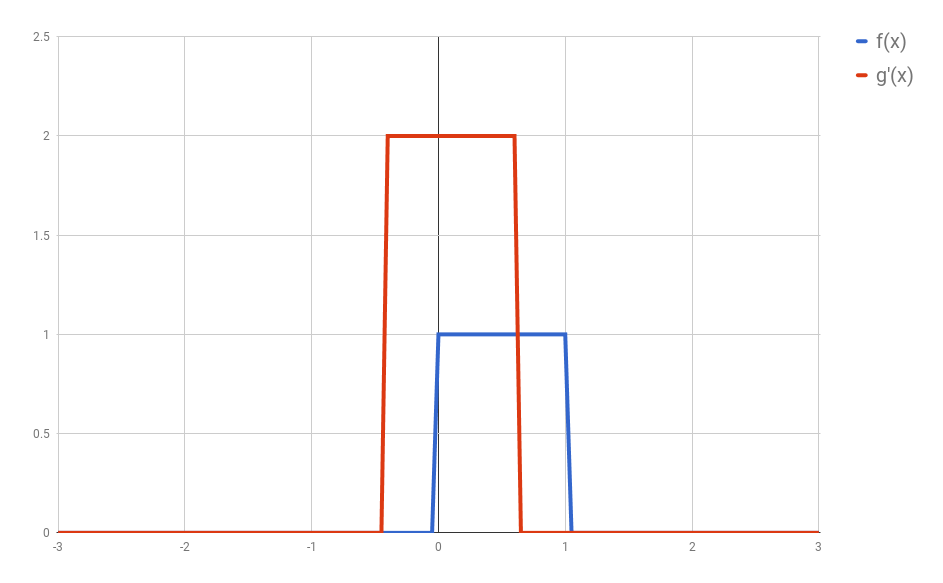
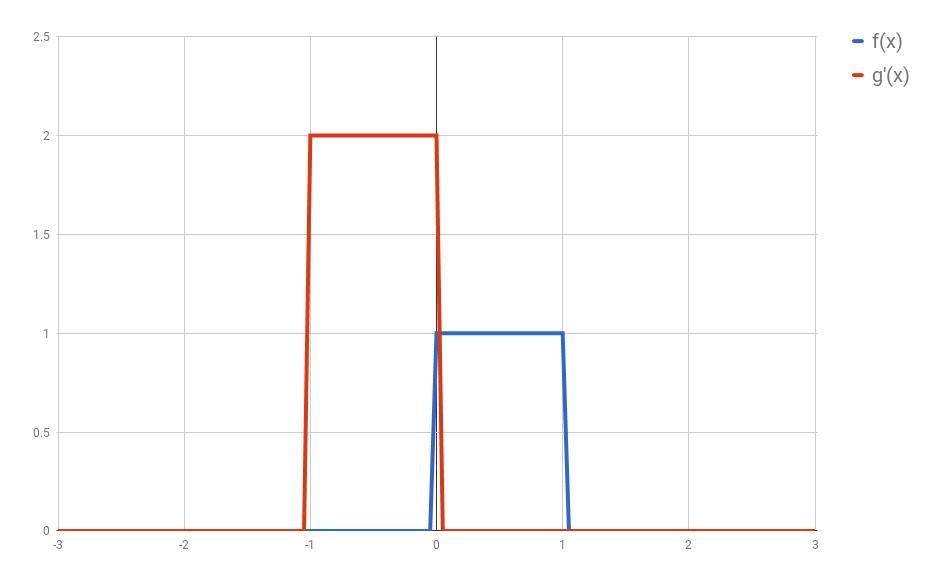
Fix conv images + add conv example

diff --git a/_posts/2017-08-12-cnn-from-an-image-processing-perspective.md b/_posts/2017-08-12-cnn-from-an-image-processing-perspective.md
@@ -90,8 +90,7 @@ _(I used Google Spreadsheets to do this, so you'll notice the
 lines are not exact, but you should be able to get the idea)_
 
 
-**First**: flip $g$ horizontally at the point $t$. For our example,
-let's say that $t=0.3$.
+**First**: flip $g$ horizontally (i.e., $g(x) <- g(-x)$).
 Let's give the flipped $g$ a name, say $g'$. (if you don't flip $g$,
 then what you are calculating has actually the name of "correlation",
 and is simply another typical operation in signal processing.).
@@ -102,7 +101,8 @@ and is simply another typical operation in signal processing.).
 
 **Second**: shift $g'$ horizontally by $t$ units. If $t$ is
 positive, then $g'$ will be shifted to the right; otherwise, it will
-be shifted to the left. I'll call this function $g_{shifted}'$
+be shifted to the left. For our example, let's say that $t=0.3$.
+I'll call this function $g_{shifted}'$
 
 ![Shifted signal](public/convolution_explained3.png)
 
@@ -350,8 +350,81 @@ How would the convolution then be calculated? Same steps:
 
   * Multiply the aligned elements and sum their result.
 
-Let's do some examples.
 
+### An example calculated by hand
+
+Before concluding this blog post, I want to calculate an example by
+hand. If you did not understand everything so far, this should
+clarify whatever is missing. Let's define two new functions $f$ and
+$g$, that, after discretization and "vectorization", become the
+following matrices:
+
+$$
+f = 
+\begin{bmatrix}
+0 & 3 & 6 & 3 \\
+3 & 6 & 3 & 6 \\
+6 & 3 & 6 & 3 \\
+3 & 6 & 3 & 0 \\
+\end{bmatrix}
+$$
+
+$$
+g =
+\begin{bmatrix}
+0 & 3 & 0 \\
+0 & 1 & 2 \\
+4 & 0 & 0 \\
+\end{bmatrix}
+$$
+
+If you think of $f$ as an image, you might interpret it as two
+diagonal lines (the values with 6) surrounded by some "shade" (the
+values with 3). The function $g$, on the other hand, is hard to
+interpret. I chose a very asymmetric matrix to show how the
+flipping (the first step in our calculation) affects the final values
+in $g$.
+
+Let's calculate $(f \ast g)(0,0)$. First is to flip $g$ to create
+$g'$:
+
+$$
+g' =
+\begin{bmatrix}
+0 & 0 & 4 \\
+2 & 1 & 0 \\
+0 & 3 & 0 \\
+\end{bmatrix}
+$$
+
+Then we align the matrix $g'$ with the part of $f$ that corresponds
+to position $(0,0)$. This
+part might cause some confusion. Where exactly is $(0,0)$? There is
+no actual "right answer" to where this point should be after
+discretization, and we don't have the original function formula to
+help us find out. I'll call this "the border problem" and refer to
+it in the next blog post. For now, I'll just align with the points
+"we know" and forget about any zeros that might lurk beyond the
+border of the matrix representing $f$. This will give us a so-called
+"valid" convolution:
+
+$$
+(f \ast g)(0,0) =
+\begin{bmatrix}
+0 & 0 & 4 \\
+2 & 1 & 0 \\
+0 & 3 & 0
+\end{bmatrix}
+\ast
+\begin{bmatrix}
+0 & 3 & 6 \\
+3 & 6 & 3 \\
+6 & 3 & 6
+\end{bmatrix}
+=
+\sum_{i,j}{f_{i,j} \times g_{i,j}}
+= (0 \times 0) + (0 \times 3) + (4 \times 6) + (2 \times 3) + (1 \times 6) + (0 \times 3) + (0 \times 6) + (3 \times 3) + (0 \times 6)
+$$
 
 
 
